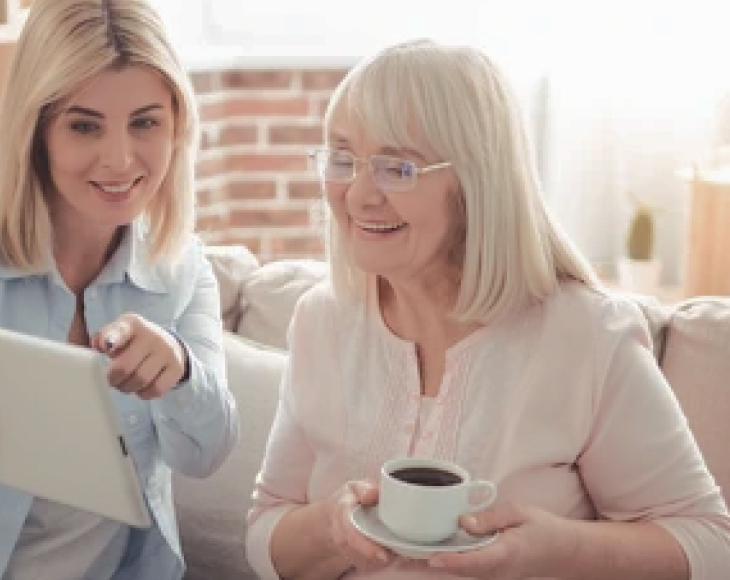
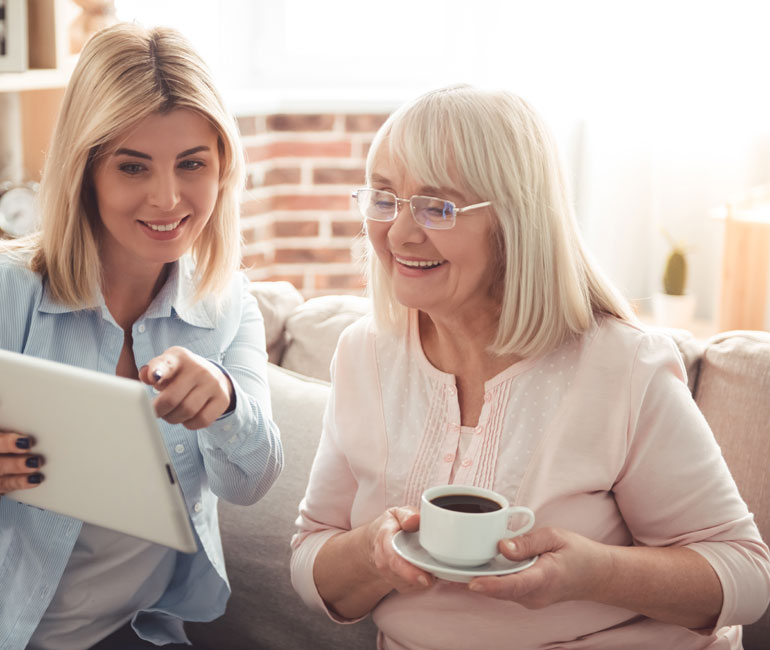
further updates to senior page

diff --git a/pages/senioren-umzug.html b/pages/senioren-umzug.html
@@ -36,7 +36,7 @@ description: "Einfach umziehen in Frankfurt am Main mit dem Familienunternehmen 
   <div class="bg-white py-5">
     <div class="container">
       <div class="row">
-        <div class="col-8">
+        <div class="col-10 offset-1 col-sm-8 col-md-8 col-lg-7">
           <h5>Mit HM-Easyumzug</h5>
           <h2 class="fw-light">Rundum sorglos umziehen</h2>
           <p>Wir kennen die Sorgen eines Umzuges in diesem Lebensabschnitt und kümmern uns von Familie für Familie.
@@ -65,10 +65,36 @@ description: "Einfach umziehen in Frankfurt am Main mit dem Familienunternehmen 
  </div>
 </section>
 
+<section id="personal-consultation" class="py-6">
+  <div class="bg-light-grey">
+    <div class="container-lg senior-usp px-0">
+      <div class="row">
+        <div class="col-12 offset-0 col-sm-8 offset-sm-2 col-lg-5 offset-lg-0 offset-xl-0 col-xxl-5 offset-xxl-0">
+          <img class="w-100" src="/assets/pics/senior-personal-consultation.jpg">
+        </div>
+        <div class="d-none d-lg-block offset-1 col-lg-5 col-xl-5 offset-xxl-1 text-black pt-4 pt-xxl-6">
+          <h2 class="fw-light">Sie stehen im Mittelpunkt</h2>
+          <p>Ortsveränderungen bedeuten große Schritte in eine neue Richtung – daher bieten wir Ihnen unsere volle Unterstützung an. Vom ersten Besichtigungstermin bis zur Abwicklung von notwendigen Formalitäten übernehmen wir alle organisatorischen Aufgaben, und stehen Ihnen jederzeit mit Rat und Tat zur Seite. Bereiten Sie sich auf Ihren neuen Lebensabschnitt vor – wir kümmern uns um Alles andere.</p>
+          <a class="link-primary" href="/kontakt">Jetzt Kontakt aufnehmen</a>
+        </div>
+      </div>
+    </div>
+  </div>
+  <div class="bg-white text-black">
+    <div class="container-lg">
+      <div class="row">
+        <div class="d-lg-none col-12 offset-0 col-sm-8 offset-sm-2 pt-5">
+          <h2 class="fw-light">Sie stehen im Mittelpunkt</h2>
+          <p>Ortsveränderungen bedeuten große Schritte in eine neue Richtung – daher bieten wir Ihnen unsere volle Unterstützung an. Vom ersten Besichtigungstermin bis zur Abwicklung von notwendigen Formalitäten übernehmen wir alle organisatorischen Aufgaben, und stehen Ihnen jederzeit mit Rat und Tat zur Seite. Bereiten Sie sich auf Ihren neuen Lebensabschnitt vor – wir kümmern uns um Alles andere.</p>
+          <a class="link-primary" href="/kontakt">Jetzt Kontakt aufnehmen</a>
+        </div>
+      </div>
+    </div>
+  </div>
+</section>
 
-
-<section id="personal-consultation" class="py-5">
-  <div class="bg-light-grey"> <!--  style="background-color: #1A3A66;"> -->
+<!-- <section id="personal-consultation" class="py-5">
+  <div class="bg-light-grey"> 
     <div class="container">
       <div class="row">
         <div class="col-8 offset-2">
@@ -76,7 +102,7 @@ description: "Einfach umziehen in Frankfurt am Main mit dem Familienunternehmen 
        </div>
      </div>
    </div>
-   <div class="bg-white"> <!--  style="background-color: #1A3A66;"> -->
+   <div class="bg-white"> 
     <div class="container">
       <div class="row">
         <div class="col-8 offset-2 py-5">
@@ -87,25 +113,27 @@ description: "Einfach umziehen in Frankfurt am Main mit dem Familienunternehmen 
       </div>
     </div>
   </div>
-</section>
+</section> -->
 
 <section id="quote" class="py-5">
-  <div class="py-5" style="background-color: #1A3A66;">
-    <div class="container">
-      <div class="row">
-        <div class="col-10 offset-1">
-         <p class="fs-2 lh-sm fw-light text-center text-white">«Ein Umzug im Alter ist eine Herausforderung, aber auch eine Gelegenheit, das Leben neu zu gestalten.»</p>
+  <div class="py-4" style="background-color: #355480;">
+    <div class="py-5" style="background-color: #1A3A66;">
+      <div class="container">
+        <div class="row">
+          <div class="col-10 offset-1">
+           <p class="fs-2 lh-sm fw-light text-center text-white">«Ein Umzug im Alter ist eine Herausforderung, aber auch eine Gelegenheit, das Leben neu zu gestalten.»</p>
+         </div>
        </div>
      </div>
    </div>
  </div>
 </section>
 
-<section id="for-seniors">
-  <div class="bg-light-grey"> <!--  style="background-color: #4C5151;"> -->
+<section id="for-seniors" class="py-6">
+  <div class="bg-light-grey">
     <div class="container-lg senior-usp px-0">
       <div class="row">
-        <div class="d-none d-lg-block col-4 offset-1 col-lg-5 col-xl-4 offset-xxl-2 text-black pt-4 pt-xxl-6">
+        <div class="d-none d-lg-block offset-1 col-lg-5 col-xl-5 col-xxl-4 offset-xxl-2 text-black pt-4 pt-xxl-6">
           <h2 class="fw-light">Leistungen speziell fuer Senioren</h2>
           <p>Alles aus einer Hand 
             Verkleinerung moeglich, Haushaltsaufloesung
@@ -113,13 +141,13 @@ description: "Einfach umziehen in Frankfurt am Main mit dem Familienunternehmen 
           vor dem Umzug, waehrend, danach</p>
           <a class="link-primary" href="/kontakt">Jetzt Kontakt aufnehmen</a>
         </div>
-        <div class="col-12 offset-0 col-sm-8 offset-sm-2 col-lg-5 offset-lg-1 offset-xl-2 col-xxl-5 offset-xxl-1">
+        <div class="col-12 offset-0 col-sm-8 offset-sm-2 col-lg-5 offset-lg-1 offset-xl-1 col-xxl-5 offset-xxl-1">
           <img class="w-100" src="/assets/pics/senior-portrait.jpg">
         </div>
       </div>
     </div>
   </div>
-  <div class="bg-white text-black"> <!--  style="background-color: #4C5151;"> -->
+  <div class="bg-white text-black">
     <div class="container-lg">
       <div class="row">
         <div class="d-lg-none col-12 offset-0 col-sm-8 offset-sm-2 pt-5">
@@ -147,7 +175,7 @@ description: "Einfach umziehen in Frankfurt am Main mit dem Familienunternehmen 
 </section>
 
 
-<section class="bg-light-grey py-5" id="badges">
+<!-- <section class="bg-light-grey py-5" id="badges">
   <div class="container-lg p-2 p-md-5">
     <h2 class="d-none">Bekannt aus</h2>
     <div class="row gy-4">
@@ -168,4 +196,4 @@ description: "Einfach umziehen in Frankfurt am Main mit dem Familienunternehmen 
       </div>
     </div>
   </div>
-</section>
+</section> -->
